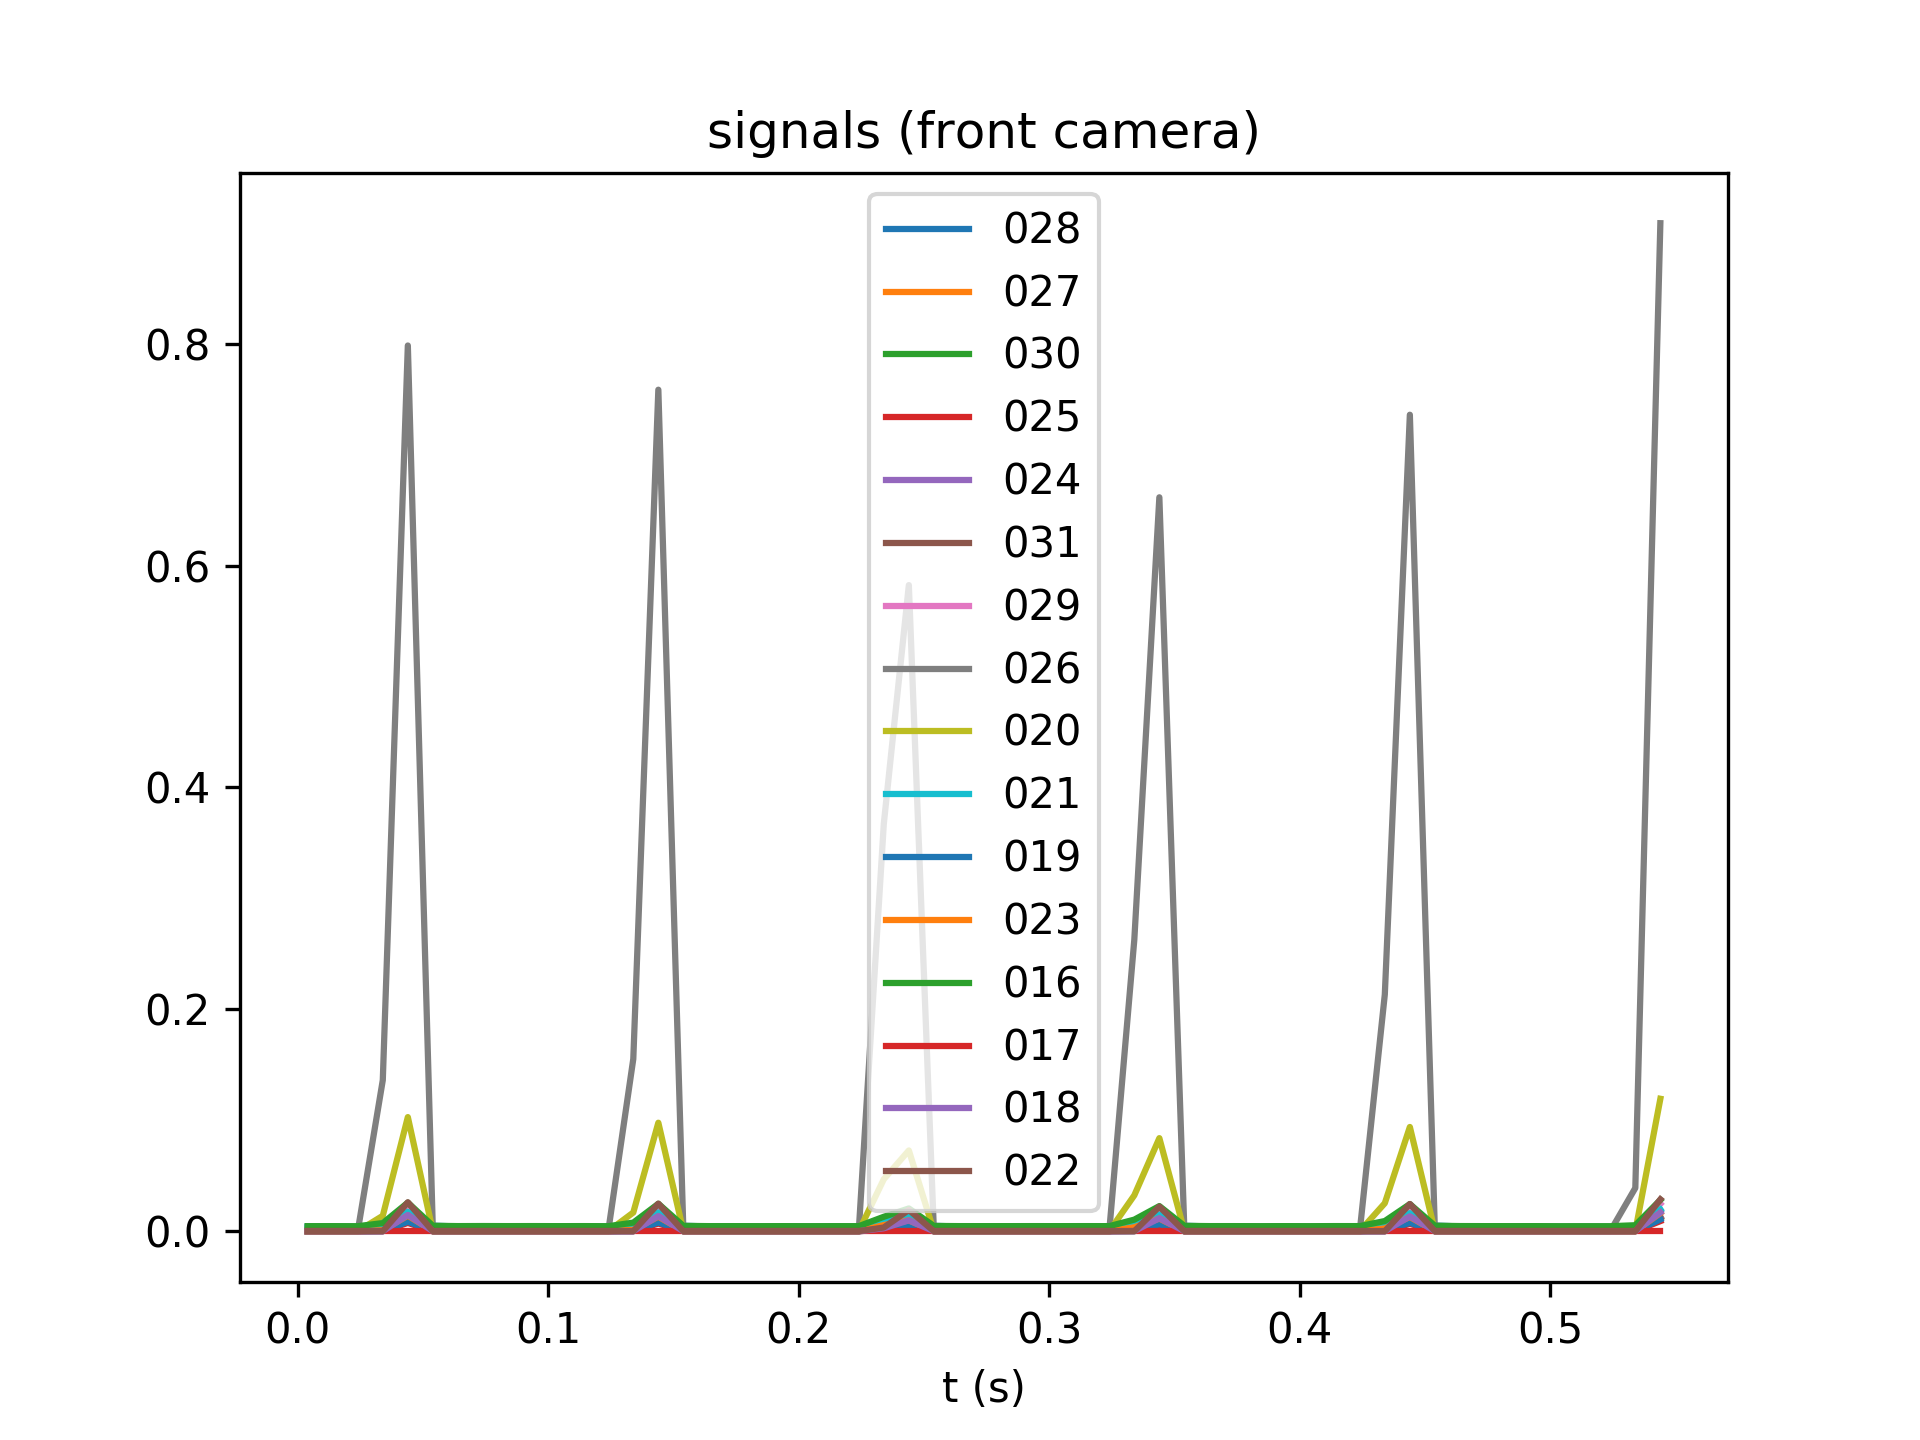
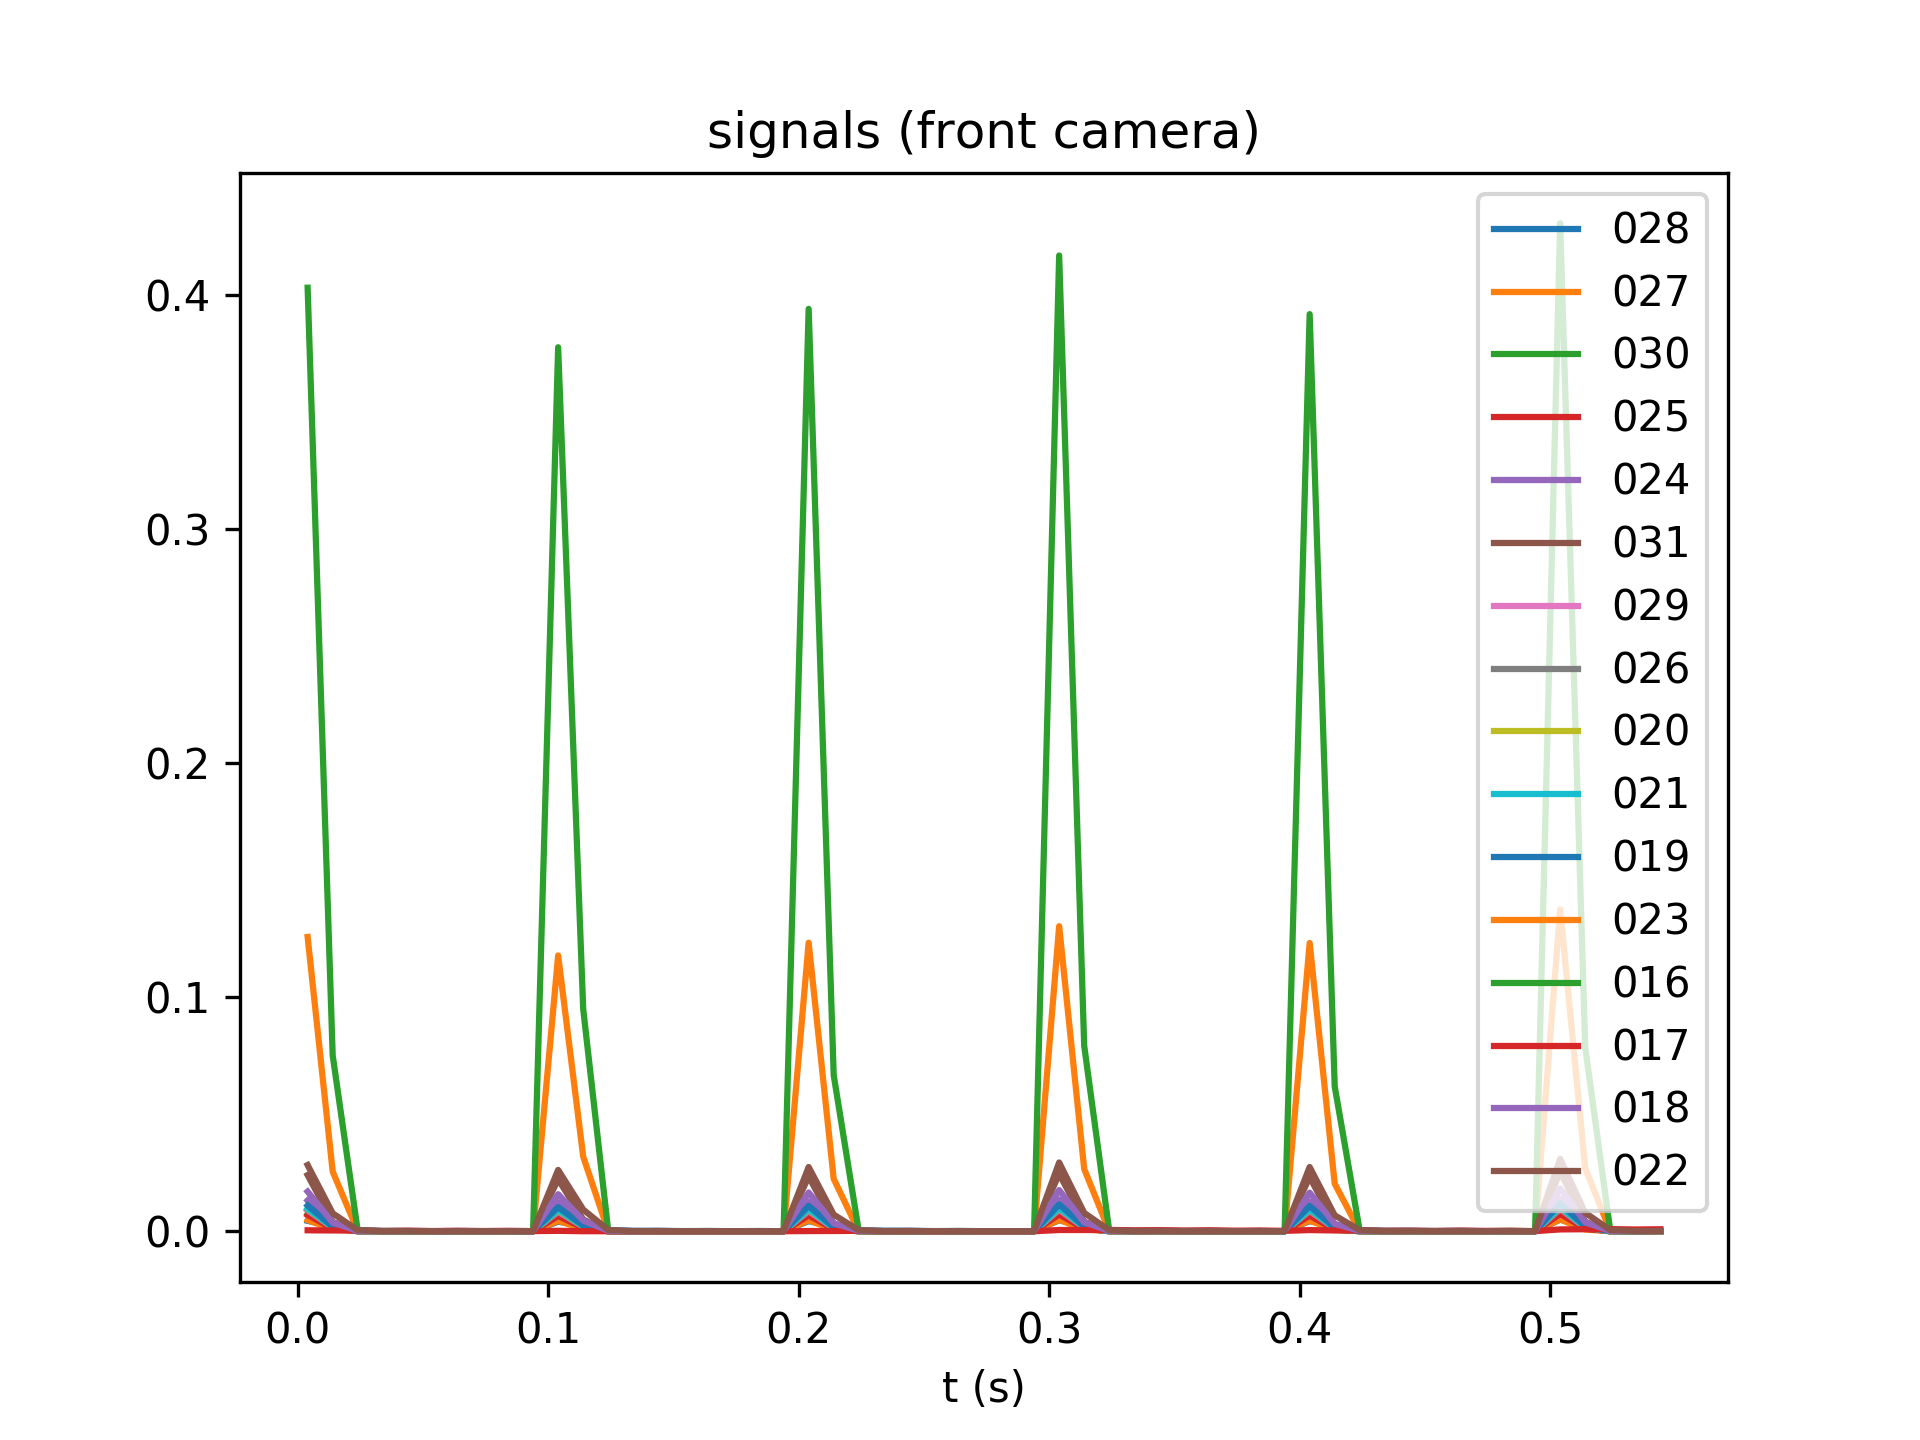
added reconstructions_mfi with Minimum Fisher

diff --git a/reconstructions_mfi.py b/reconstructions_mfi.py
@@ -1,0 +1,164 @@
+from __future__ import print_function
+
+import numpy as np
+import matplotlib.pyplot as plt
+from skimage.draw import ellipse
+
+# -------------------------------------------------------------------------
+
+fname = 'projections.npy'
+print('Reading:', fname)
+projections = np.load(fname)
+
+print('projections:', projections.shape, projections.dtype)
+
+# -------------------------------------------------------------------------
+
+fname = 'signals_data.npy'
+print('Reading:', fname)
+signals_data = np.load(fname)
+
+print('signals_data:', signals_data.shape, signals_data.dtype)
+
+fname = 'signals_time.npy'
+print('Reading:', fname)
+signals_time = np.load(fname)
+
+print('signals_time:', signals_time.shape, signals_time.dtype)
+
+# -------------------------------------------------------------------------
+
+P = projections.reshape((projections.shape[0], -1))
+
+print('P:', P.shape, P.dtype)
+
+# -------------------------------------------------------------------------
+
+n_rows = projections.shape[1]
+n_cols = projections.shape[2]
+
+Dh = np.eye(n_rows*n_cols) - np.roll(np.eye(n_rows*n_cols), 1, axis=1)
+Dv = np.eye(n_rows*n_cols) - np.roll(np.eye(n_rows*n_cols), n_cols, axis=1)
+
+print('Dh:', Dh.shape, Dh.dtype)
+print('Dv:', Dv.shape, Dv.dtype)
+
+# -------------------------------------------------------------------------
+
+ii, jj = ellipse(n_rows//2, n_cols//2, n_rows//2, n_cols//2)
+mask = np.ones((n_rows, n_cols))
+mask[ii,jj] = 0.
+
+Io = np.eye(n_rows*n_cols) * mask.flatten()
+
+print('Io:', Io.shape, Io.dtype)
+
+# -------------------------------------------------------------------------
+
+Pt = np.transpose(P)
+PtP = np.dot(Pt, P)
+
+DtDh = np.dot(np.transpose(Dh), Dh)
+DtDv = np.dot(np.transpose(Dv), Dv)
+ItIo = np.dot(np.transpose(Io), Io)
+
+alpha_1 = .01# np.identity(n_cols*n_rows)
+alpha_2 = .01# np.identity(n_cols*n_rows)
+alpha_3 = alpha_1*1000
+
+
+print(np.mean(PtP)*PtP.shape[0]*PtP.shape[1])
+
+for f in signals_data.transpose()[3:]:
+    print(f.shape)
+    inv = np.linalg.inv(PtP + alpha_1*DtDh + alpha_2*DtDv + alpha_3*ItIo)
+    error = np.inf
+    while np.abs(error-1) > .1:
+        M = np.dot(inv, Pt)
+        g_mfi = np.dot(M,f)
+        f_v = np.dot(P,g_mfi)
+        error = np.dot(f_v-f,f_v-f)/(32*0.0018**2)
+        print(error)
+        if np.abs(error-1) <= .1:
+            print('converged')
+            plt.imshow(g_mfi.reshape((n_rows,n_cols)),extent = [-10., 10., -10., 10.])
+            plt.show()
+            break
+        else:
+            diag = 1./np.maximum(g_mfi,1e-8)
+            W = np.diag(diag)
+            inv = np.linalg.inv(PtP + alpha_1*np.dot(Dh.transpose(),np.dot(W,Dh)) + alpha_2*np.dot(Dv.transpose(),np.dot(W,Dv)) + alpha_1*1e3*ItIo)
+            # plt.imshow(g_mfi.reshape((n_rows,n_cols)),vmin = 0, vmax = 0.001, extent = [-100., 100., -100., 100.])
+            # print(np.max(g_mfi))
+            # plt.show()
+        
+
+#     inv = np.linalg.inv(PtP + alpha_1*DtDh + alpha_2*DtDv + alpha_3*ItIo)
+#     
+#     g_mfi = np.dot(M,f)
+
+# # -------------------------------------------------------------------------
+
+# tomo = []
+# tomo_t = np.arange(0., signals_time[0,-1], 0.01)
+
+# for t in tomo_t:
+#     i = np.argmin(np.fabs(signals_time[0] - t))
+#     f = signals_data[:,i].reshape((-1, 1))
+#     g = np.dot(M, f)
+#     tomo.append(g.reshape((n_rows, n_cols)))
+#     print(signals_time[0,i])
+
+# tomo = np.array(tomo)
+
+# print('tomo:', tomo.shape, tomo.dtype)
+# print('tomo_t:', tomo_t.shape, tomo_t.dtype)
+
+# # -------------------------------------------------------------------------
+
+# vmin = 0.
+# vmax = np.max(tomo)
+
+# ni = 4
+# nj = tomo.shape[0]/ni
+# nj = 6
+
+# fig, ax = plt.subplots(ni, nj, figsize=(2*nj, 2*ni))
+
+
+# for i in range(ni):
+#     for j in range(nj):
+#         k = i*nj + j
+#         ax[i,j].imshow(tomo[k], vmin=vmin, vmax=vmax)
+#         ax[i,j].set_title('t=%.3fs' % tomo_t[k])
+#         ax[i,j].set_axis_off()
+
+# plt.show()
+
+# # -------------------------------------------------------------------------
+
+
+# f_v = np.dot(P,np.clip(tomo.reshape(tomo.shape[0],-1).transpose(),a_min = 0, a_max = None))
+# f = signals_data
+# print('f_v:', f_v.shape)
+# print('f:', f.shape)
+
+# print(f[8,8])
+# print(f_v[8,8])
+# print(np.dot(P[8],tomo[8].flatten()))
+
+
+# plt.figure()
+# plt.imshow(P[8].reshape(n_rows,n_cols),extent = [-100., 100., -100., 100.])
+# plt.colorbar()
+# plt.figure()
+# print(tomo[8].shape)
+# plt.imshow(tomo[8],extent = [-100., 100., -100., 100.])
+# plt.colorbar()
+# plt.show()
+
+# for i in range(f.shape[0]):
+# 	plt.figure()
+# 	plt.plot(tomo_t,f_v[i],'r')
+# 	plt.plot(tomo_t,f[i],'b')
+# 	plt.show()

diff --git a/signals.py b/signals.py
@@ -53,7 +53,7 @@ shot = 43649
 # #225o, 5cm
 # shot = 43665
 
-shot = 43837
+shot = 43872
 
 
 channels = [
@@ -127,6 +127,7 @@ for channel in channels:
     signals_data.append(data)
     signals_time.append(time)
     plt.plot(time, data,label = channel[-3:])
+    print('max: ', np.max(data))
     if channel == channels[15]:
         plt.title('signals (top camera)')
         plt.xlabel('t (s)')

diff --git a/projections.py b/projections.py
@@ -74,7 +74,7 @@ np.save(fname, projections)
 vmin = 0.
 vmax = np.sqrt(((x_max-x_min)/n_cols)**2 + ((y_max-y_min)/n_rows)**2)
 
-ni = 2
+ni = 4
 nj = 4
 figsize = (2*nj, 2*ni)
 

diff --git a/reconstructions.py b/reconstructions.py
@@ -91,6 +91,7 @@ print('tomo_t:', tomo_t.shape, tomo_t.dtype)
 
 vmin = 0.
 vmax = np.max(tomo)
+print(vmax)
 
 ni = 4
 nj = tomo.shape[0]/ni
